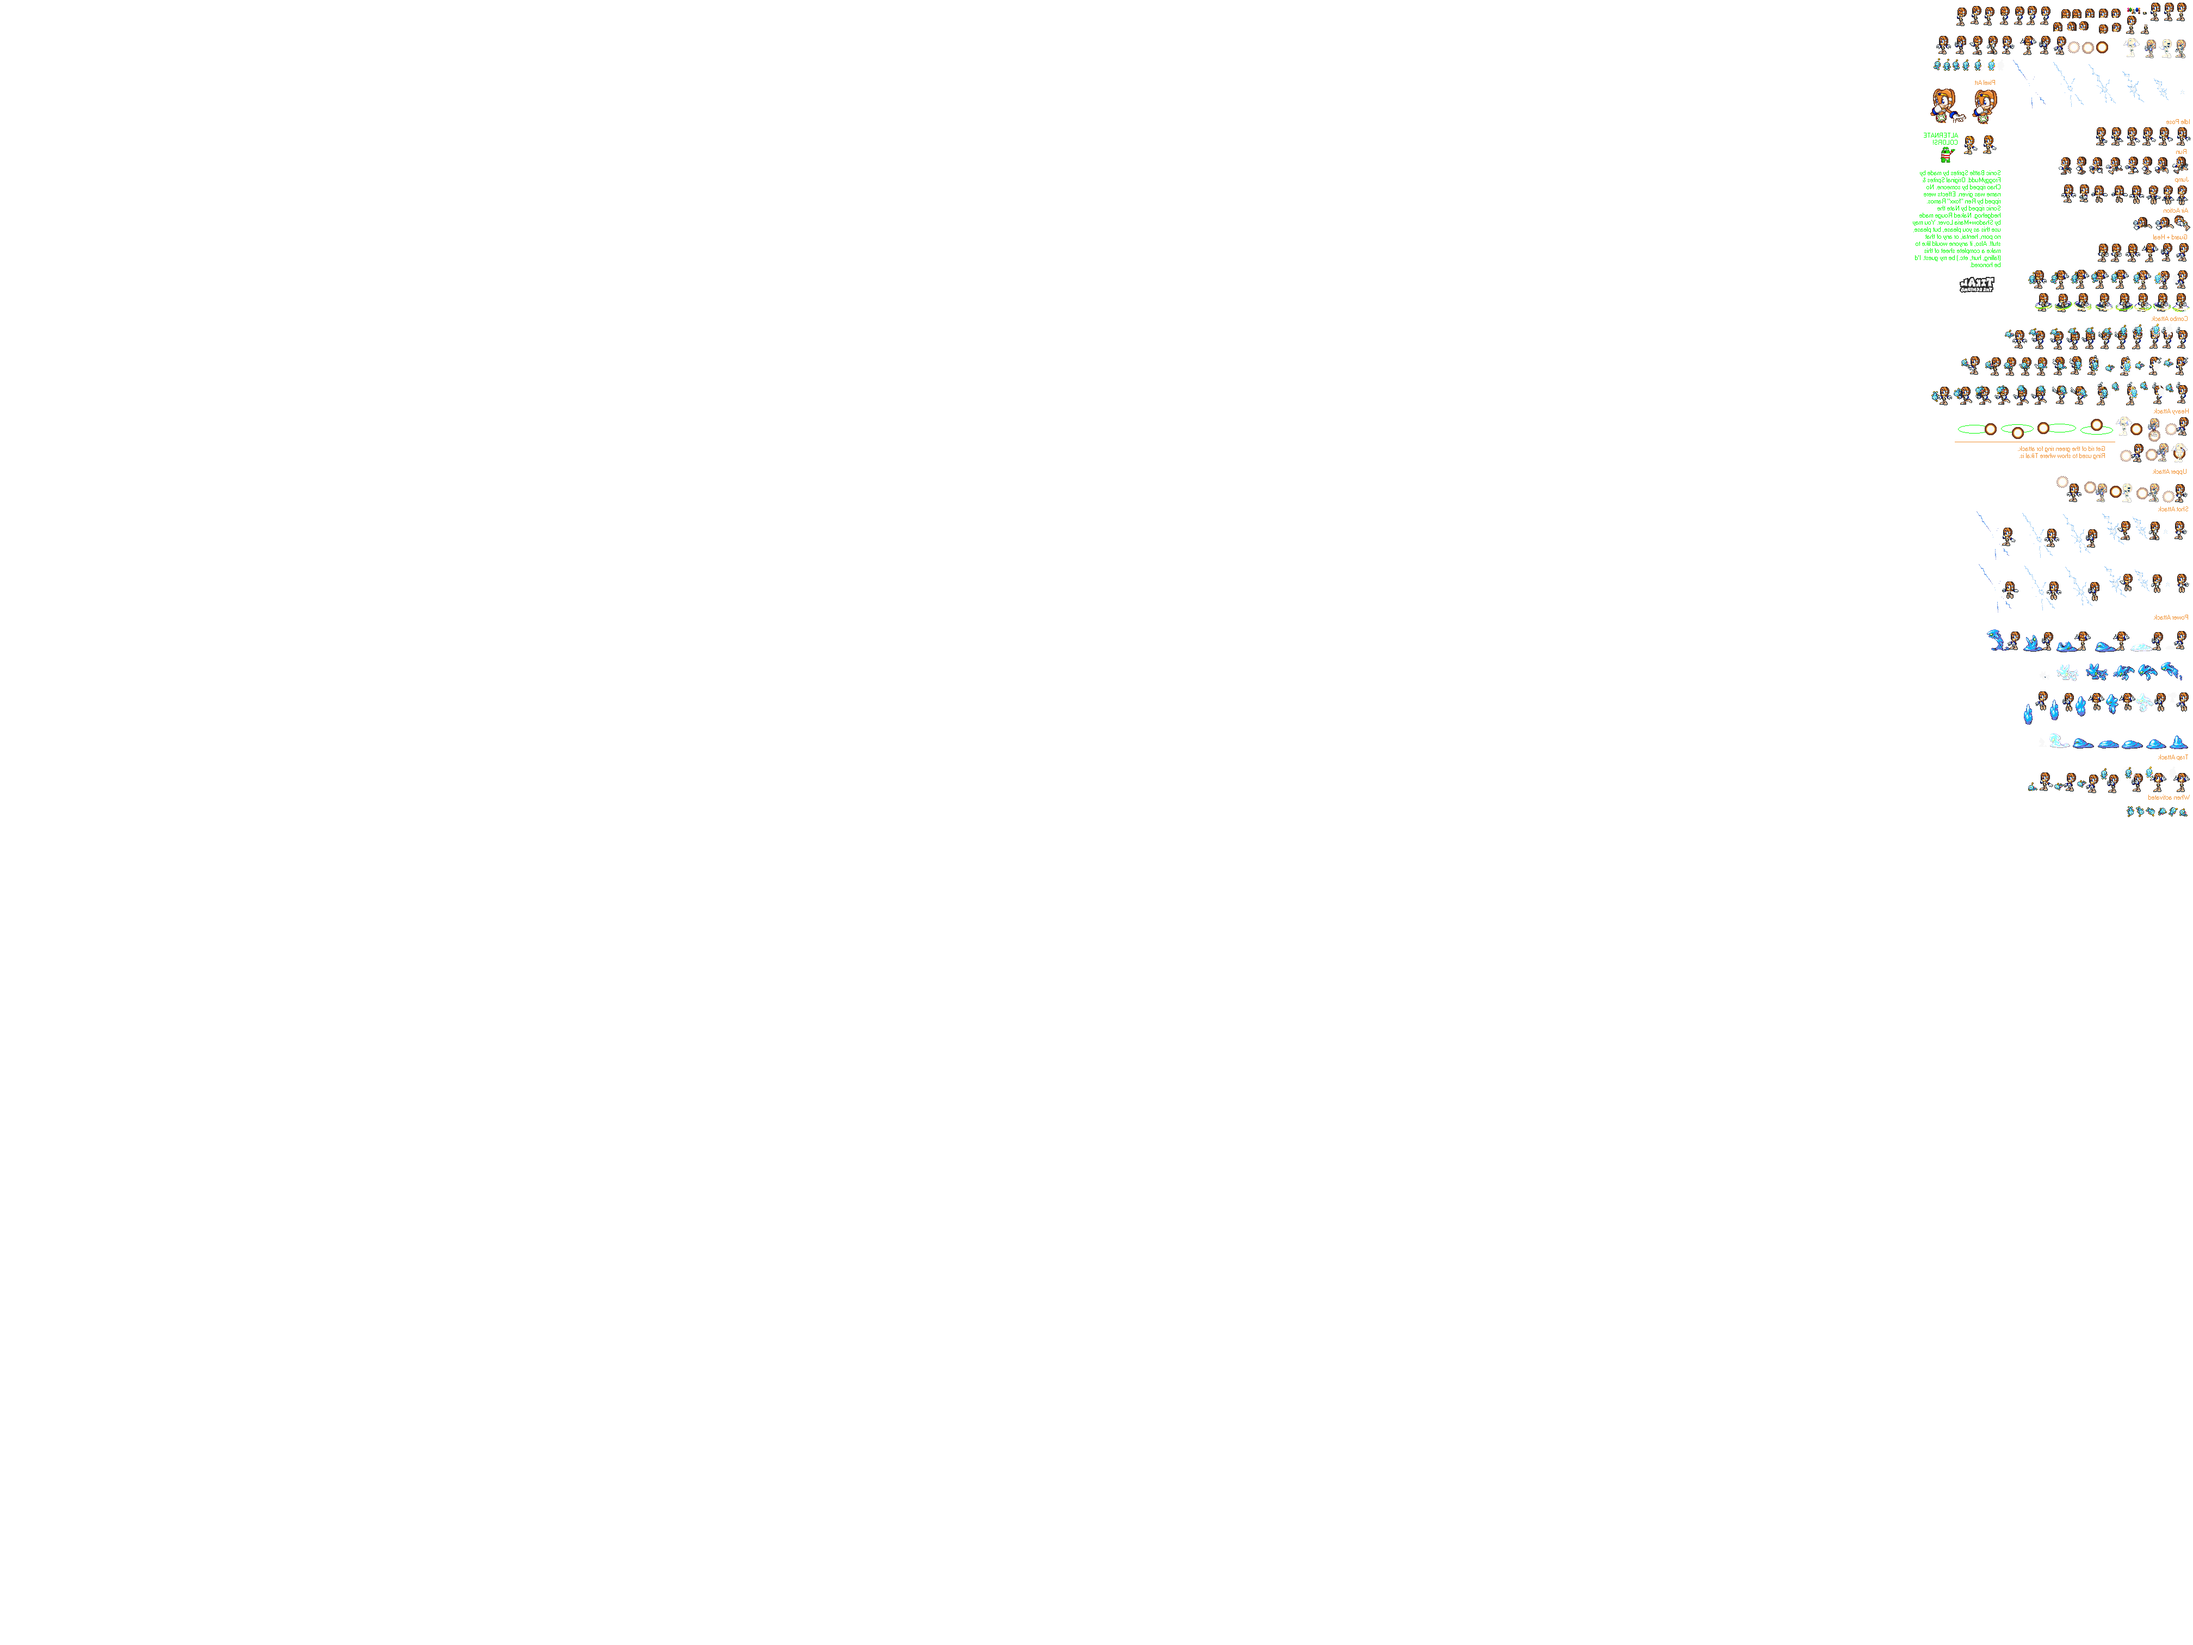
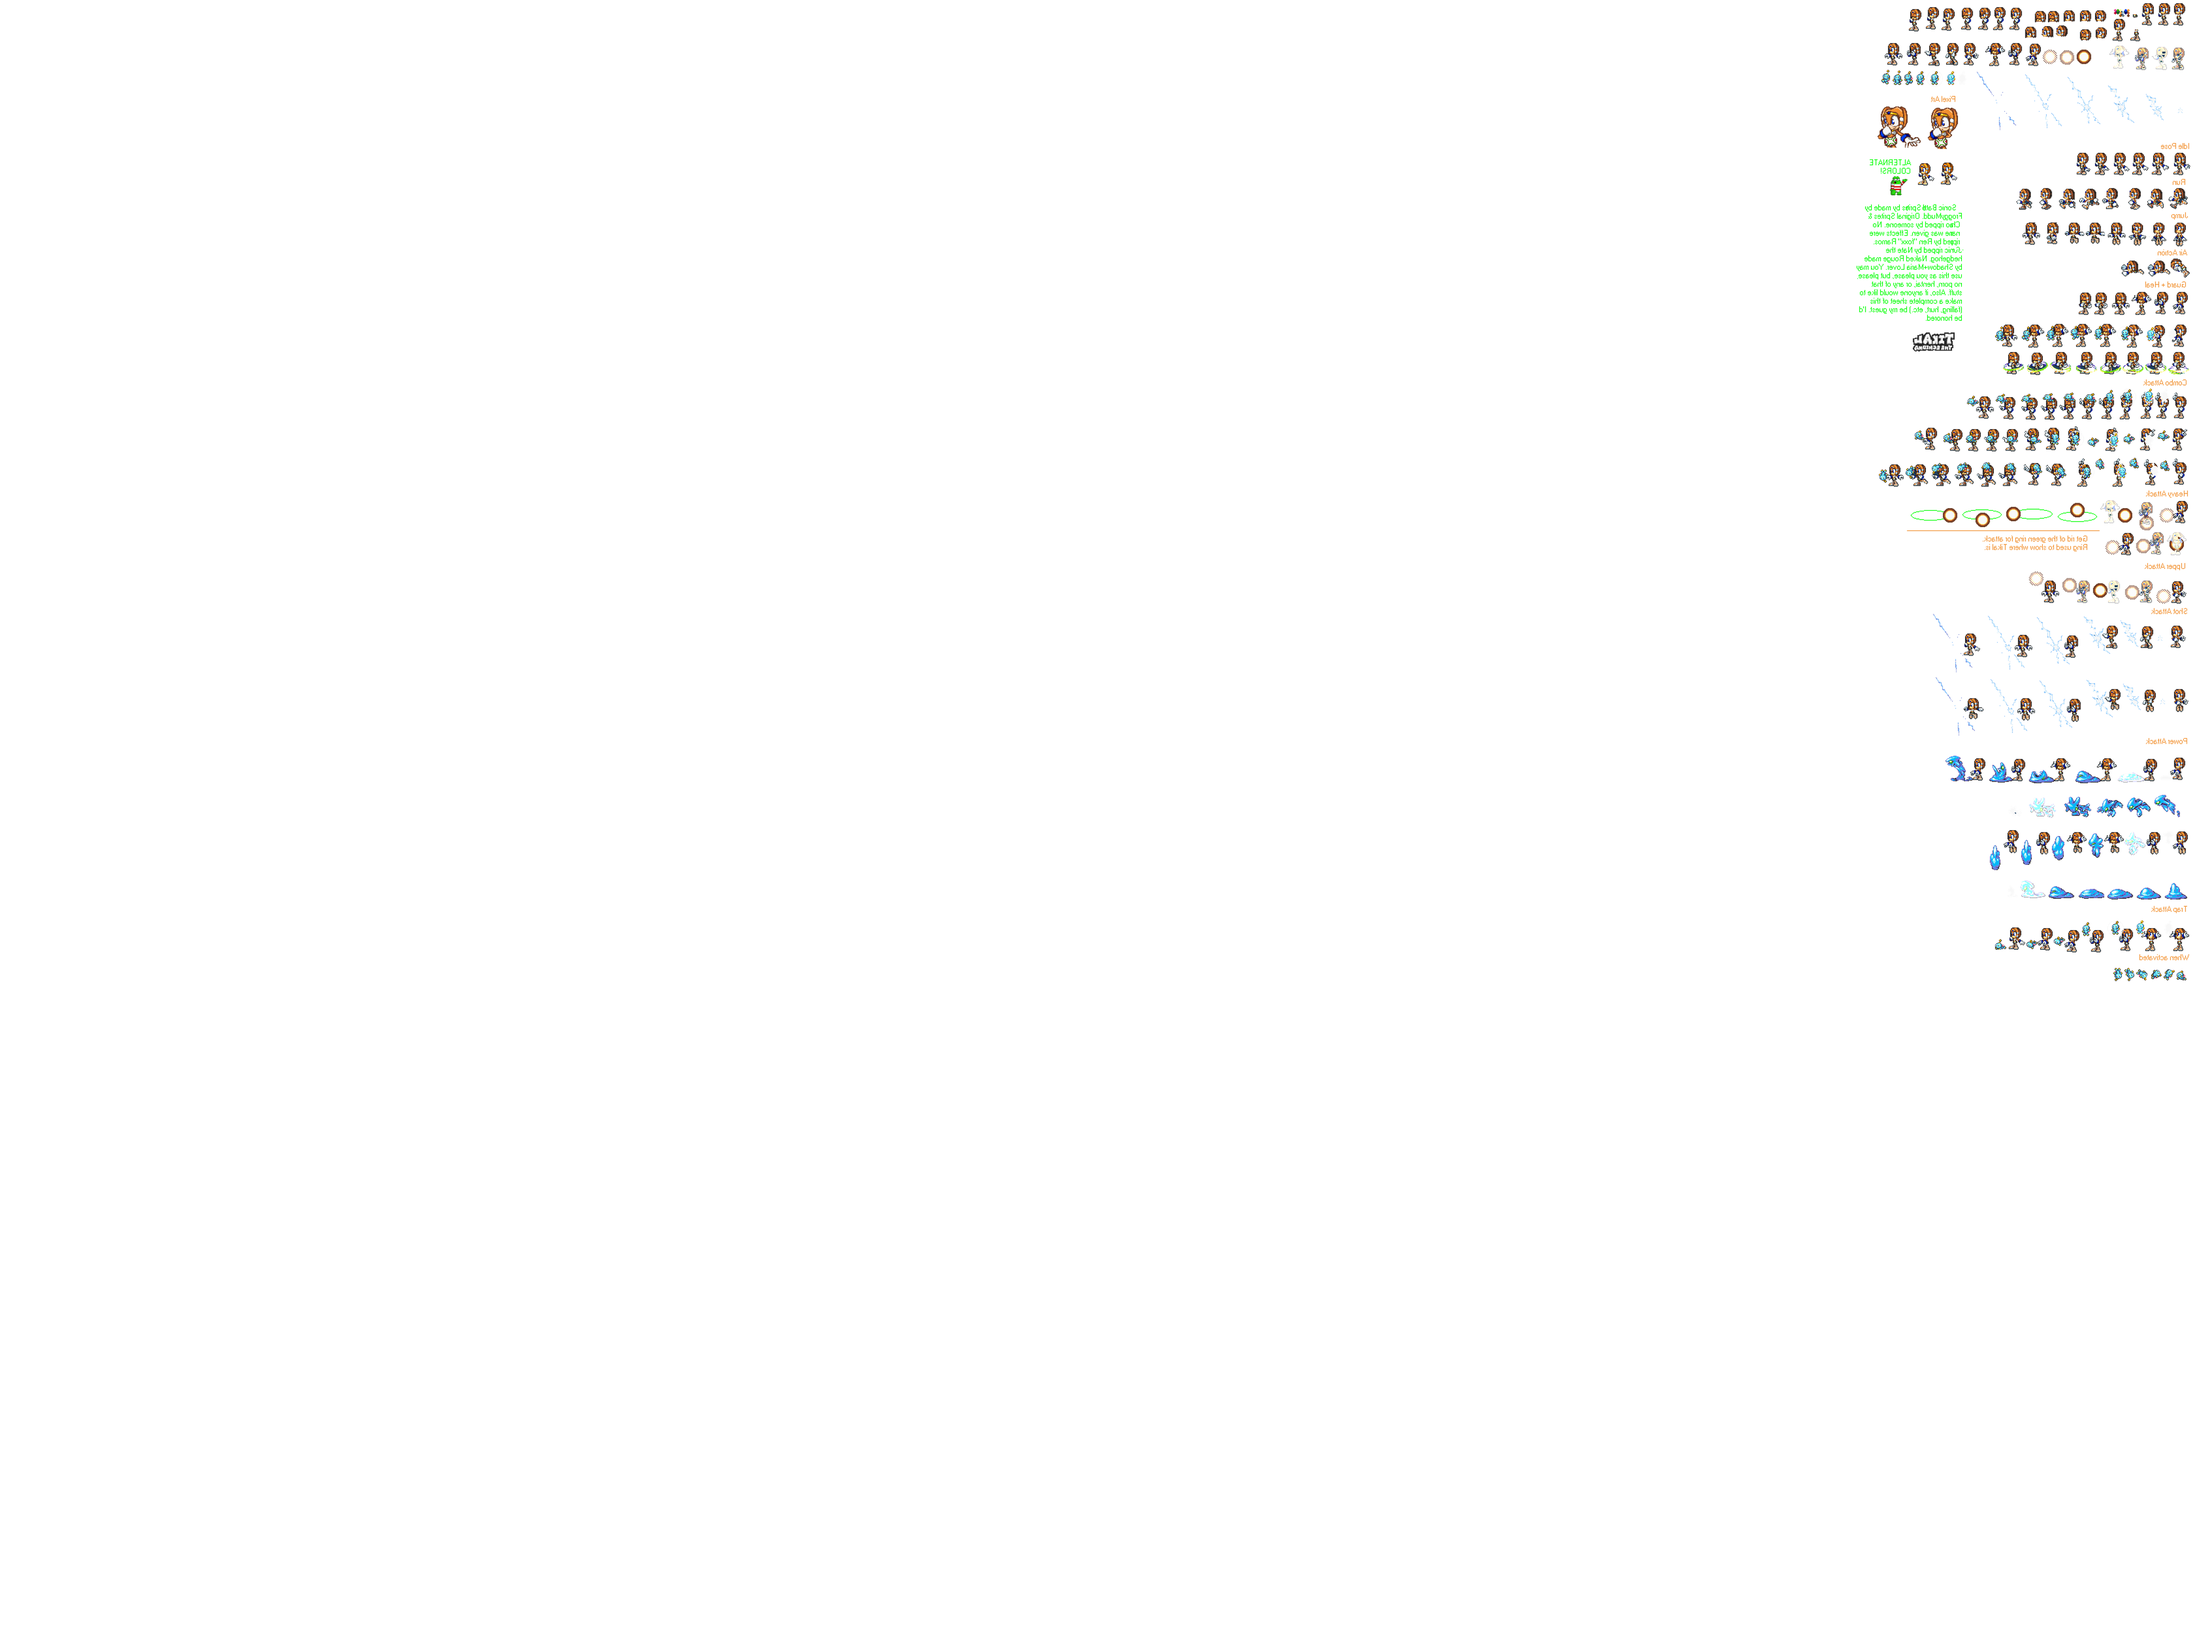
코드 수정, 캐릭터 스프라이트 수정
tikal left, right 스프라이트 크기 수정, 위치 조정
tikal 점프, 이동 애니메이션 구현

Changed region(s): [[0.8438, 0.0, 1.0, 0.5906]]

diff --git a/main_state.py b/main_state.py
@@ -234,8 +234,10 @@ class AmyRose:
 class Tikal:
     def __init__(self):
         self.hp = 100
-        self.speed = 3
-        self.frame = 0
+        self.speed = 1.2
+        self.idle_frame = 0
+        self.move_frame = 0
+        self.jump_frame = 0
         self.attack = True
         self.damage = 6
         self.time = 0
@@ -250,13 +252,17 @@ class Tikal:
 
     def update(self):
         self.time += 1
-        if self.time % 5 == 0:
-            self.frame = (self.frame + 1) % 6
+        if self.time % 10 == 0:
+            self.move_frame = (self.move_frame + 1) % 8
+        if self.time % 30 == 0:
+            self.jump_frame = (self.jump_frame + 1) % 8
+            self.idle_frame = (self.idle_frame + 1) % 6
         self.x += self.dir_x * self.speed
         if self.jump == True:
             if self.radian <= pi * 3 / 2:
-                self.radian += (pi / 8)
-                self.y += sin(self.radian) * 6
+                if self.time % 7 == 0:
+                    self.radian += (pi / 12)
+                    self.y += sin(self.radian) * 10
             else:
                 self.y = 130
                 self.jump = False
@@ -267,10 +273,21 @@ class Tikal:
             self.x = 0
 
     def draw(self):
-        if self.dir_x == 1 or self.right == 1:
-            self.image_left.clip_draw(self.frame * 30 + 5, 2754, 30, 40, self.x, self.y)
-        if self.dir_x == -1 or self.right == 0:
-            self.image_right.clip_draw(4032 - 5 - 30 - self.frame * 30, 2754, 30, 40, self.x, self.y)
+        if self.dir_x == 1:
+            if self.jump == True:
+                self.image_left.clip_draw(self.jump_frame * 39 + 5, 2570, 38, 43, self.x, self.y)
+            else:
+                self.image_left.clip_draw(self.move_frame * 41 + 5, 2640, 40, 40, self.x, self.y)
+        if self.dir_x == -1:
+            if self.jump == True:
+                self.image_right.clip_draw(4032 - 39 - 5 - self.jump_frame * 39, 2570, 38, 43, self.x, self.y)
+            else:
+                self.image_right.clip_draw(4032 - 41 - 5 - self.move_frame * 41, 2640, 40, 40, self.x, self.y)
+        if self.dir_x == 0:
+            if self.right == 1:
+                self.image_left.clip_draw(self.idle_frame * 36 + 5, 2700, 38, 40, self.x, self.y)
+            elif self.right == 0:
+                self.image_right.clip_draw(4032 - 36 - 5 - self.idle_frame * 36, 2700, 38, 40, self.x, self.y)
 
 class Rouge:
     def __init__(self):
